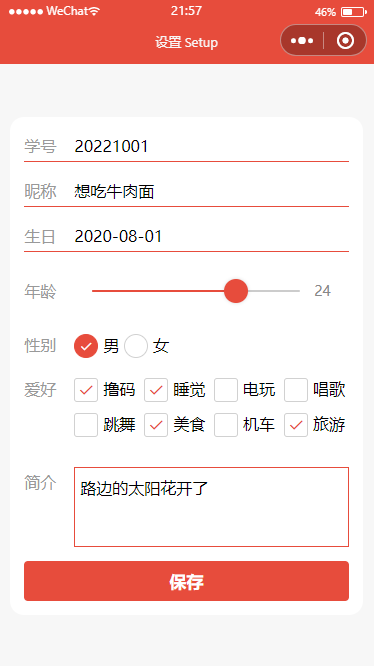
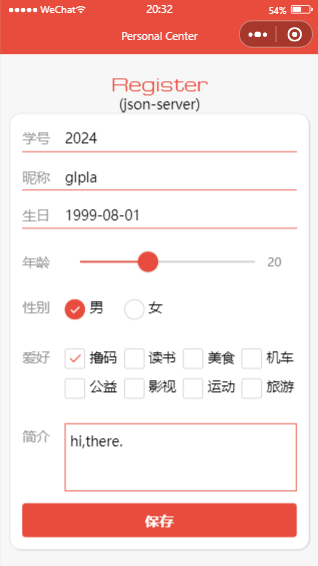
mp

diff --git a/minip/scrollview.html b/minip/scrollview.html
@@ -20,8 +20,11 @@
     </header>
     <dl>
         <dt>说明</dt>
-        <dd>超过容器后，子项可以按照一定方向滚动的区域</dd>
+        <dd>容器组件</dd>
+        <dd>实现拖拽滚动</dd>
+        <dd>子项尺寸超过容器后，可以按照一定方向滚动以显式被隐藏的子项</dd>
         <dd>不支持嵌套textarea、map、canvas、video 组件</dd>
+        <dd>滚动条的长度是预估的；若直接子节点的高度差别较大，则滚动条长度可能会不准确</dd>
         <dd>更多信息，请查看<a href="https://developers.weixin.qq.com/miniprogram/dev/component/scroll-view.html"
                 class="link">官方文档</a></dd>
         <dd>
@@ -48,8 +51,27 @@
                     <td>使用动画过渡</td>
                 </tr>
                 <tr>
+                    <td>scroll-top</td>
+                    <td>设置竖向滚动条位置</td>
+                </tr>
+                <tr>
                     <td>bindscroll</td>
                     <td>滚动时触发</td>
+                </tr>
+            </table>
+            <table class="tbl-sn">
+                <caption>WebView 特有属性</caption>
+                <tr>
+                    <th>属性</th>
+                    <th>说明</th>
+                </tr>
+                <tr>
+                    <td>enable-flex</td>
+                    <td>布尔；默认false；启用 flexbox 布局，使之成为 flex 容器！！！</td>
+                </tr>
+                <tr>
+                    <td>using-sticky</td>
+                    <td>布尔；默认false；启用 position: sticky 特性</td>
                 </tr>
             </table>
             <table class="tbl-sn">
@@ -74,35 +96,9 @@
                     <td>布尔；默认false；启用 position: sticky 特性</td>
                 </tr>
             </table>
-            <table class="tbl-sn">
-                <caption>WebView 特有属性</caption>
-                <tr>
-                    <th>属性</th>
-                    <th>说明</th>
-                </tr>
-                <tr>
-                    <td>enable-flex</td>
-                    <td>布尔；默认false；启用 flexbox 布局</td>
-                </tr>
-                <tr>
-                    <td>using-sticky</td>
-                    <td>布尔；默认false；启用 position: sticky 特性</td>
-                </tr>
-            </table>
         </dd>
-        <dd class="example-sn">垂直滚动 - 查看城市信息</dd>
-        <dd>页面结构</dd>
-        <dd>- 滑动视图：内部是若干标题城市首字母和城市图像或名称列表</dd>
-        <dd>- 版权信息</dd>
-        <dd class="code">
-            <pre>&lt;scroll-view scroll-y using-sticky class="sc"&gt;&lt;/scroll-view&gt;</pre>
-        </dd>
-        <dd>样式</dd>
-        <div>- 版权信息高度100rpx</div>
-        <div>- 滑动视图高度由 calc 计算得出；且标题粘性定位在滑动视图顶端</div>
-        <dd class="tips">如果不限高，不使用 scroll-view 也可以</dd>
-        <dd class="example-sn">水平滚动 - 导航</dd>
-        <dd>方案1：容器不换行；导航项调整为inline-block</dd>
+        <dd class="example-sn">水平滚动 - 导航/推荐/活动</dd>
+        <dd>方案1：容器不换行；子项项调整为inline-block</dd>
         <dd>
             <figure class="code">
                 <figcaption>wxml</figcaption>
@@ -128,6 +124,9 @@
             </figure>
         </dd>
         <dd>方案2：在容器和子项之间增加一个view作为间接容器，view使用弹性盒子flex布局</dd>
+        <dd>默认情况下，flex会压缩子项；为了撑开：</dd>
+        <dd>方案1：容器设置不换行：flex-wrap: nowrap;</dd>
+        <dd>方案2：子项设置不缩放：flex-shrink: 0;</dd>
         <dd>
             <figure class="code">
                 <figcaption>wxml - 增加一级容器</figcaption>
@@ -150,7 +149,20 @@
 }</pre>
             </figure>
         </dd>
-        <dd>方案3：为容器增加enable-flex属性启用并使用弹性盒子flex布局；仍然需要单独设置各项的间隔；样式过于分散，不推荐</dd>
+        <dd>方案3：小程序默认方案：为容器增加enable-flex属性启用并使用弹性盒子flex布局</dd>
+        <dd>仍然需要单独设置各项的间隔；样式过于分散，不推荐</dd>
+        <dd class="question">能否使用浮动float实现?</dd>
+        <dd class="example-sn">垂直滚动 - 查看城市信息/商品列表</dd>
+        <dd>页面结构</dd>
+        <dd>- 滑动视图：内部是若干标题城市首字母和城市图像或名称列表</dd>
+        <dd>- 版权信息</dd>
+        <dd class="code">
+            <pre>&lt;scroll-view scroll-y using-sticky class="sc"&gt;&lt;/scroll-view&gt;</pre>
+        </dd>
+        <dd>样式</dd>
+        <div>- 版权信息高度100rpx</div>
+        <div>- 滑动视图高度由 calc 计算得出；且标题粘性定位在滑动视图顶端</div>
+        <dd class="tips">如果不限高，不使用 scroll-view 也可以</dd>
         <dd class="example-sn">联动导航</dd>
         <dd>滚动视图scroll-view和轮播swiper配合使用</dd>
         <dd>单击滚动导航项，轮播跳转到指定项</dd>
@@ -175,7 +187,7 @@
 &lt;/swiper&gt;</pre>
             </figure>
             <figure class="code">
-                <figcaption>js|ts</figcaption>
+                <figcaption>js</figcaption>
                 <pre>
 selectItem(e:any) {
     this.setData({
@@ -189,6 +201,7 @@ changeItem(e:any){
 }</pre>
             </figure>
         </dd>
+        <dd>改进方案：使用双向绑定实现 - 简直不要太爽，详情请参考 <a href="./model.html" class="link">双向绑定</a></dd>
     </dl>
     <iframe src="../common/footer.html" frameborder="0" scrolling="no" title="footer" id="footer"></iframe>
 </body>

diff --git a/minip/model.html b/minip/model.html
@@ -18,12 +18,80 @@
         <h1>双向绑定</h1>
         <span>model</span>
     </header>
-    <div class="chap">数据双向绑定 </div>
     <dl>
-        <dt>model</dt>
+        <dt class="txt-center">视图层 <i class="ri-arrow-left-right-line"></i> 逻辑层</dt>
+        <dd>多用于表单元素</dd>
         <dd>为value添加model修饰符即可实现双向数据绑定</dd>
+        <dd>省略了触发事件，如bindchange或bindinput</dd>
+        <dd>只能简单属性绑定 - 单一字段</dd>
+        <dd>借助调试器的AppData查看绑定情况</dd>
+        <dd class="example-sn">&lt;input&gt; - text</dd>
         <dd class="code">
-            <pre>&lt;input type="text" model:value='{{val}}' /&gt;</pre>
+            <pre>msg:'hi',</pre>
+        </dd>
+        <dd class="code">
+            <pre>&lt;input type="text" model:value='{{msg}}' /&gt;</pre>
+        </dd>
+        <dd>复合数据双向绑定失败：仅实现逻辑层到视图层的绑定</dd>
+        <dd class="code">
+            <pre>
+obj:{
+    msg:'hi'
+}</pre>
+        </dd>
+        <dd class="code">
+            <pre>&lt;input type="text" model:value='{{obj.msg}}' /&gt;</pre>
+        </dd>
+        <dd>改进：实现双向绑定需要借助表单事件，如bindchange等</dd>
+        <dd>此时不再需要mode。还原为普通事件流</dd>
+        <dd class="code">
+            <pre>
+obj:{
+    msg:'hi'
+}</pre>
+        </dd>
+        <dd class="code">
+            <pre>&lt;input type="text" value='{{obj.msg}}' bindinput="getMsg"/&gt;</pre>
+        </dd>
+        <dd class="code">
+            <pre>
+getMsg(e) {
+    this.setData({
+        'obj.msg':e.detail.value
+    })
+}</pre>
+        </dd>
+        <dd class="example-sn">&lt;swiper&gt; - 当前swiper-item - current</dd>
+        <dd>拖动或设置为自动播放，查看绑定情况</dd>
+        <dd class="code">
+            <pre>cur:1</pre>
+        </dd>
+        <dd class="code">
+            <pre>
+&lt;view>{{cur}}&lt;/view&gt;
+&lt;swiper model:current="{{cur}}"&gt;
+  &lt;swiper-item&gt; 11 &lt;/swiper-item&gt;
+  &lt;swiper-item&gt; 22 &lt;/swiper-item&gt;
+  &lt;swiper-item&gt; 33 &lt;/swiper-item&gt;
+  &lt;swiper-item&gt; 44 &lt;/swiper-item&gt;
+&lt;/swiper&gt;</pre>
+        </dd>
+        <dd class="example-sn">联动导航 - 改进方案</dd>
+        <dd>滚动视图scroll-view和轮播swiper配合使用</dd>
+        <dd class="code">
+            <pre>cur: 1</pre>
+        </dd>
+        <dd class="code">
+            <pre>
+&lt;scroll-view class="wrap" scroll-x scroll-with-animation model:scroll-into-view="id{{cur}}"&gt;
+    &lt;view class="item" wx:for="{{10}}" wx:key="index" id="id{{index}}"&gt;{{item}}&lt;/view&gt;
+&lt;/scroll-view&gt;
+
+&lt;swiper class="swiper-wrap" model:current="{{cur}}"&gt;
+    &lt;swiper-item  class="swiper-item" wx:for="{{10}}" wx:key="index"&gt;
+        {{item}}
+    &lt;/swiper-item&gt;
+&lt;/swiper&gt;</pre>
         </dd>
     </dl>
     <iframe src="../common/footer.html" frameborder="0" scrolling="no" title="footer" id="footer"></iframe>

diff --git a/minip/font.html b/minip/font.html
@@ -89,17 +89,17 @@ text{
     <!-- <dd class="number">
       <div>从 <a href="//glpla.github.io" class="link">大树小站</a> 拉取定义好的字体样式文件wxss；文件名就是字体名</div>
     </dd> -->
-    <dd class="example-sn">利用 - 大树小站 - 提供的在线字体，完成字体定制和使用</dd>
+    <dd class="example-sn">利用 - 大树小站 - 提供的在线字体，完成字体定制和使用 - <span class="warn">注意大小写。。。</span></dd>
     <dd class="number">
-      <div>CruiserFortressBevel - https://glpla.github.io/fonts/CruiserFortressBevel.ttf *</div>
+      <div>CruiserFortressBevel - https://glpla.github.io/fonts/CruiserFortressBevel.ttf </div>
       <div>FlappyBird - https://glpla.github.io/fonts/FlappyBird.ttf </div>
-      <div>Great Vibes - https://glpla.github.io/fonts/Great_Vibes/GreatVibes-Regular.ttf *</div>
-      <div>Michroma - https://glpla.github.io/fonts/Michroma/Michroma.ttf *</div>
+      <div>Great Vibes - https://glpla.github.io/fonts/Great_Vibes/GreatVibes-Regular.ttf </div>
+      <div>Michroma - https://glpla.github.io/fonts/Michroma/Michroma.ttf </div>
       <div>Monospace - https://glpla.github.io/fonts/Monospace/Elronmonospace.ttf </div>
       <div>Poppins - https://glpla.github.io/fonts/Poppins/Poppins-Regular.ttf </div>
-      <div>Quicksand - https://glpla.github.io/fonts/Quicksand/Quicksand-Regular.ttf *</div>
-      <div>Roboto - https://glpla.github.io/fonts/Roboto/Roboto-Regular.ttf *</div>
-      <div>yuwei - https://glpla.github.io/fonts/YuWei/YuWeiShuFaXingShuJianTi.ttf *</div>
+      <div>Quicksand - https://glpla.github.io/fonts/Quicksand/Quicksand-Regular.ttf </div>
+      <div>Roboto - https://glpla.github.io/fonts/Roboto/Roboto-Regular.ttf </div>
+      <div>yuwei - https://glpla.github.io/fonts/YuWei/YuWeiShuFaXingShuJianTi.ttf </div>
     </dd>
     <!-- <dd class="example-sn">引入 - 大树小站 - 定义好的字体样式文件并使用 -</dd>
     <dd class="number">

diff --git a/minip/case4.html b/minip/case4.html
@@ -22,6 +22,7 @@
             <dd class="number">
                 <div>数据绑定</div>
                 <div>表单事件的使用</div>
+                <div>json-server服务器的使用</div>
             </dd>
             <dt>目的</dt>
             <dd class="number">
@@ -48,13 +49,13 @@
             <dd>
                 <pre class="code">
 userInfo:{
+    id:20221001
     ubirth:'2020-08-01',
     udesc:'hi,there.',
     ulike:[],
     uage:18,
     ugender:'女',
     uname:'glpla',
-    usn:20221001
 }</pre>
             </dd>
             <dd>3. 提交代码</dd>
@@ -77,6 +78,8 @@ submit(e){
 }</pre>
             </dd>
             <dd>4. 服务器脚本</dd>
+            <dd>方案1：使用json-server服务器，创建过程，请访问 <a href="../node/jsonserver.html" class="link">json-server</a></dd>
+            <dd>方案2：使用node.js服务器</dd>
             <dd>
                 <pre class="code">
 const express = require('express')
@@ -113,6 +116,11 @@ app.listen(port, () => {
             <dd>用户姓名uname</dd>
             <dd>用户邮箱uemail</dd>
             <dd>用户留言umsg</dd>
+            <dt>扩展</dt>
+            <dd>如何改善用户体验？如加入各种提示信息</dd>
+            <dd>. wx.showLoading()</dd>
+            <dd>. wx.hideLoading()</dd>
+            <dd>. wx.showToast()</dd>
         </dl>
     </div>
     <iframe src="../common/footer.html" frameborder="0" scrolling="no" title="footer" id="footer"></iframe>

diff --git a/minip/form.html b/minip/form.html
@@ -235,20 +235,20 @@ textarea{
                     </td>
                 </tr>
                 <tr>
-                    <td>bindinput</td>
-                    <td>键盘输入时触发</td>
-                </tr>
-                <tr>
                     <td>bindfocus</td>
                     <td>输入框聚焦时触发</td>
                 </tr>
                 <tr>
+                    <td>bindinput</td>
+                    <td>键盘输入时触发；组合使用</td>
+                </tr>
+                <tr>
                     <td>bindblur</td>
-                    <td>输入框失去焦点时触发</td>
+                    <td>输入框失去焦点时触发；组合使用</td>
                 </tr>
                 <tr>
                     <td>bindconfirm</td>
-                    <td>点击完成按钮时触发</td>
+                    <td>点击完成按钮时触发；组合使用</td>
                 </tr>
                 <tr>
                     <td>bindlinechange</td>

diff --git a/minip/wxml.html b/minip/wxml.html
@@ -62,6 +62,7 @@
       <div>由于小程序大小的限制，多媒体资源如图像、视频、音频等等，应通过在线方式获取；所以我们需要搭建本地资源服务器或者花钱使用云开发</div>
     </dd>
     <dt>数据绑定</dt>
+    <dd>WXML 中的动态数据均来自对应 Page 的 data。</dd>
     <dd>可以绑定 <span class="warn">内容</span>，也可以绑定 <span class="warn">属性</span></dd>
     <dd>在wxml中使用{{}}和js中的数据绑定起来；也叫插值表达式</dd>
     <dd>可以进行基本的逻辑运算，如三元表达式、算术运算</dd>
